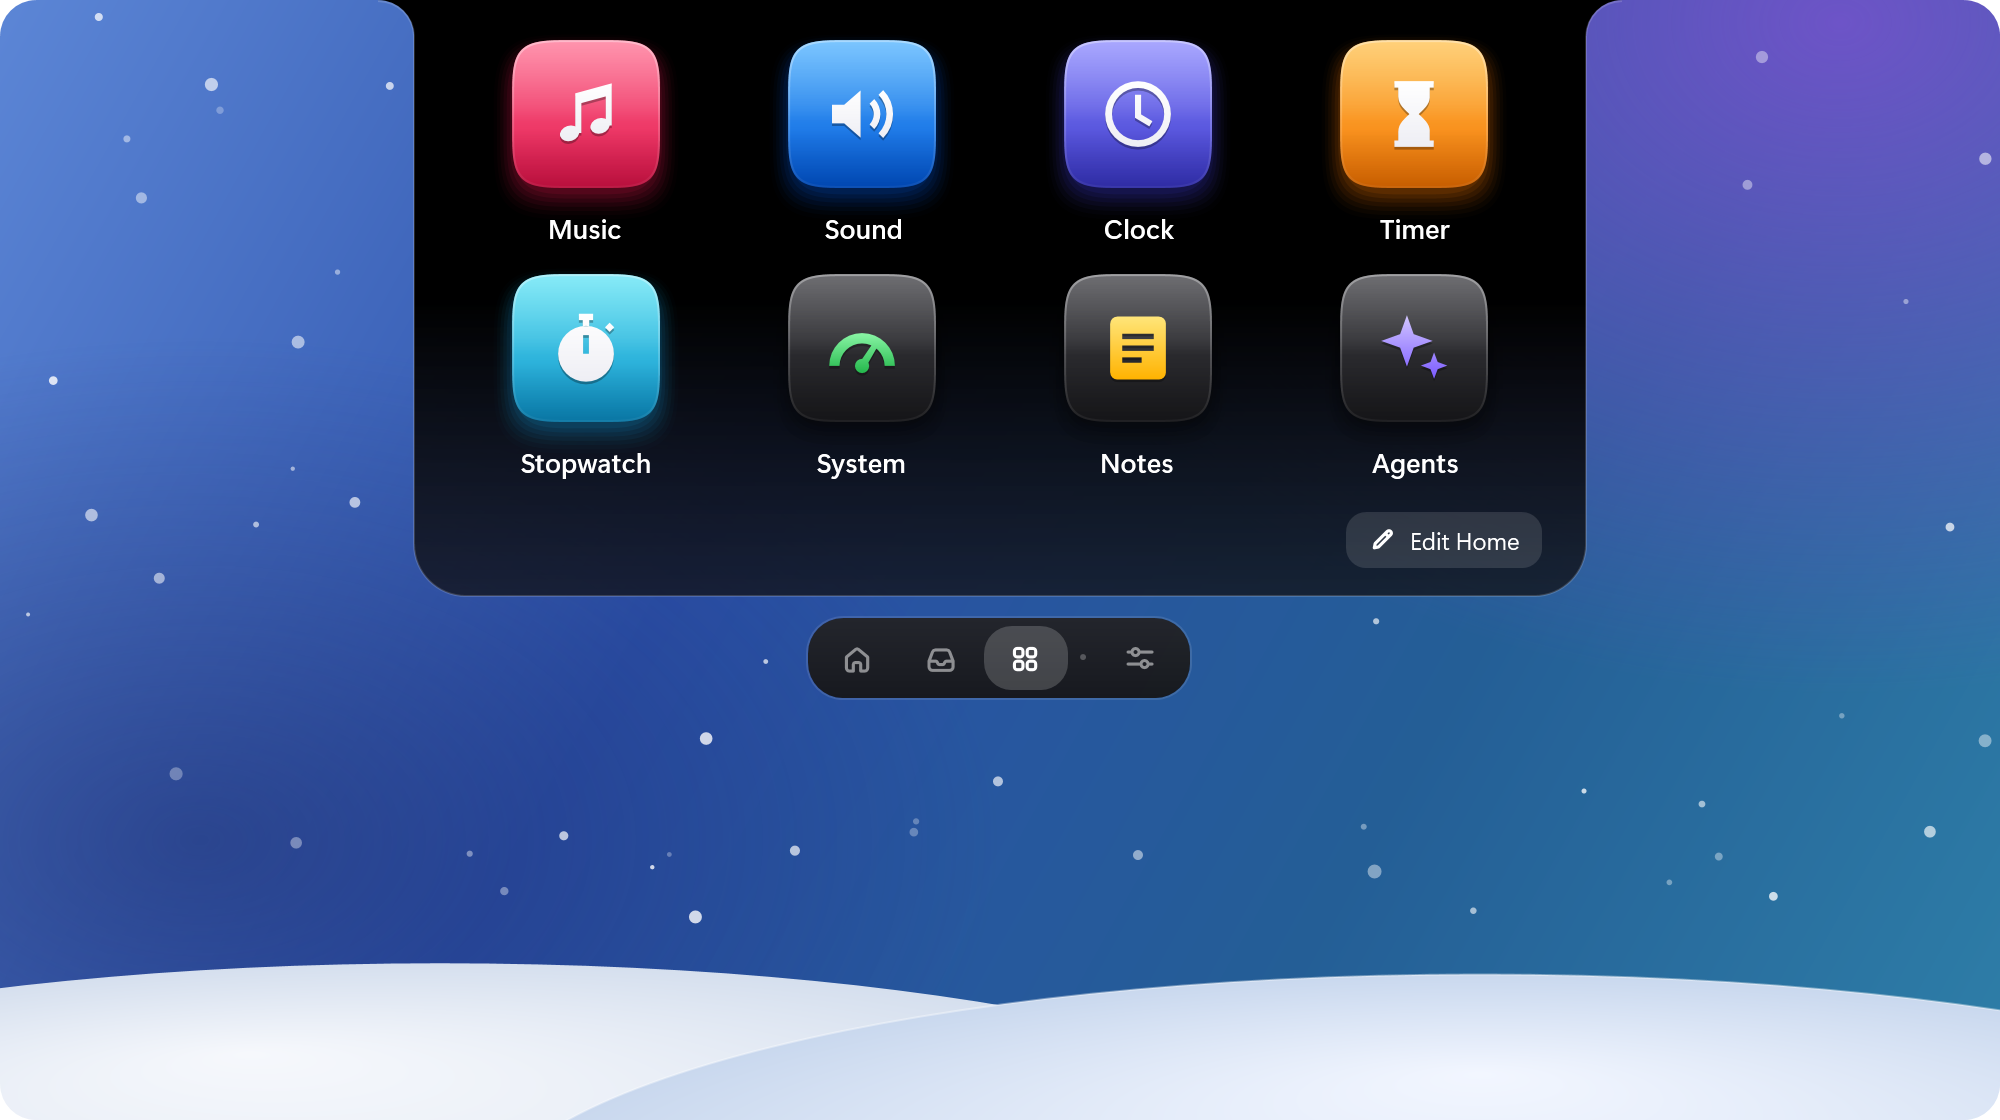
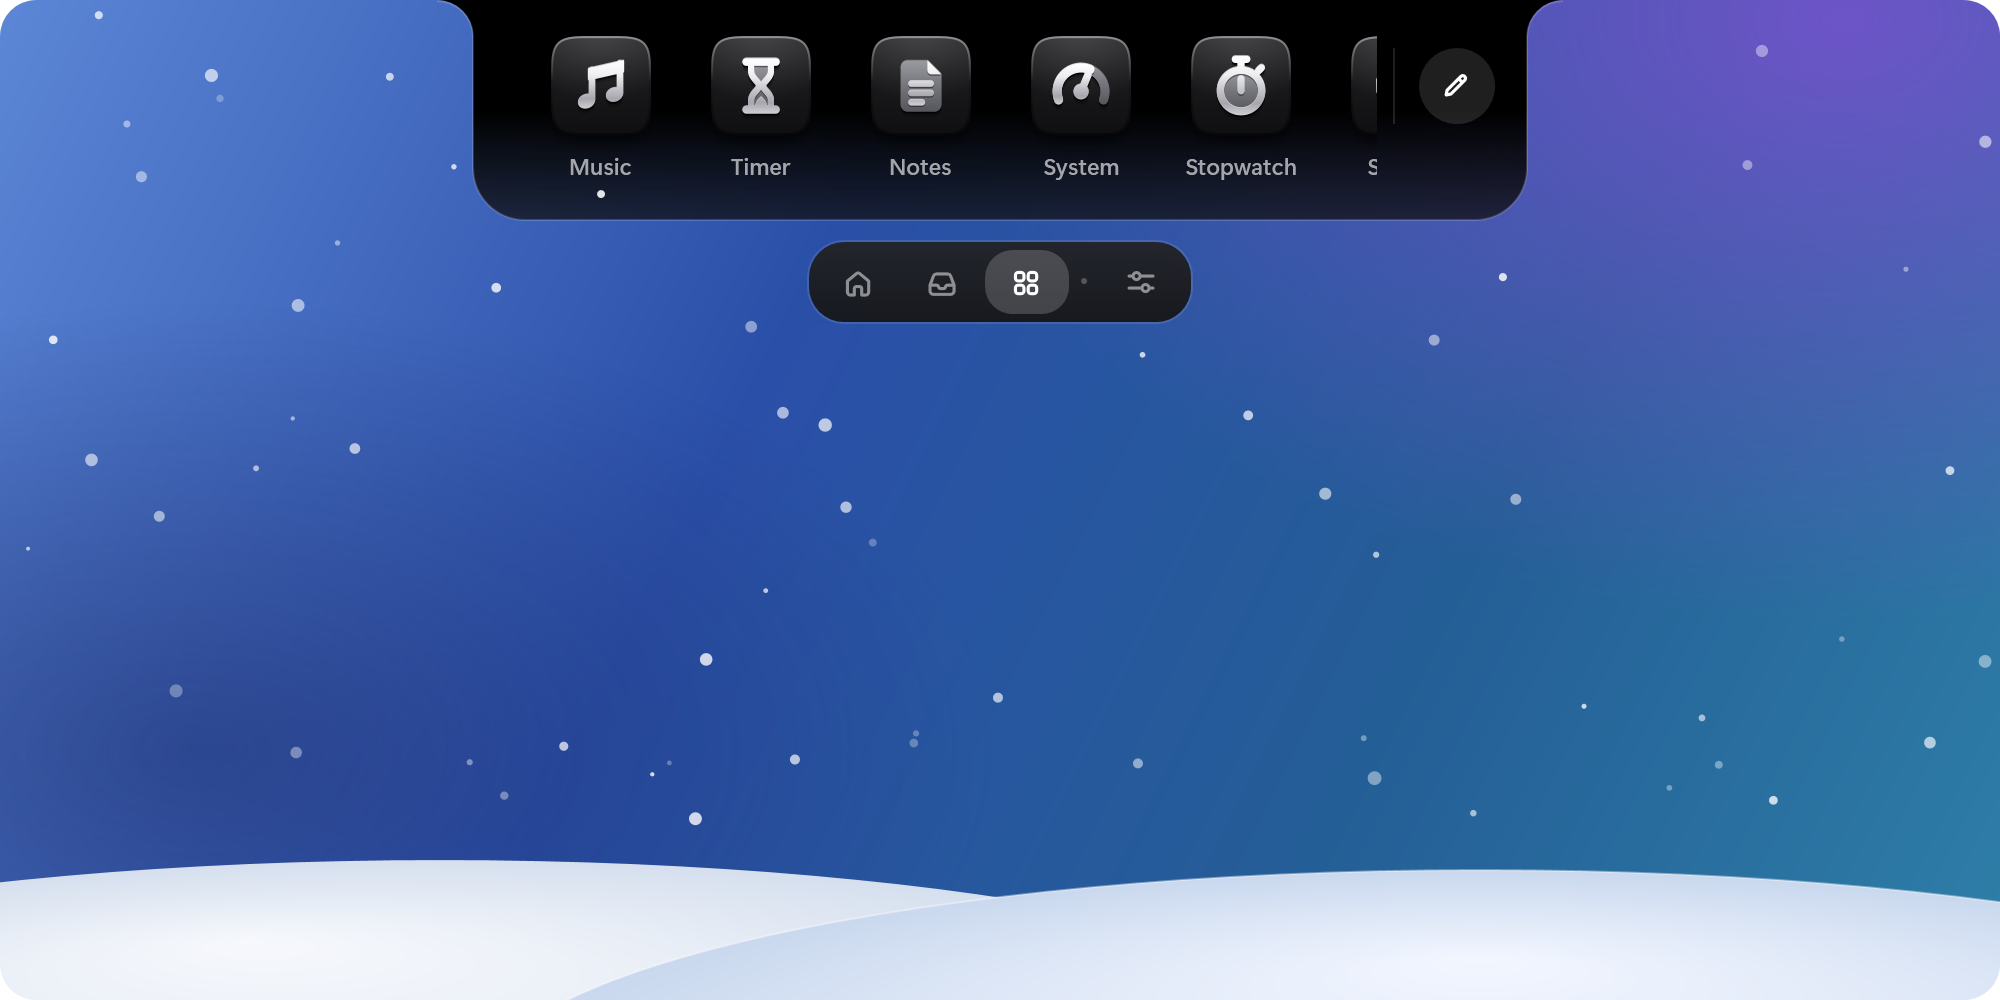
SnowyNotch 0.5.1: new screenshots and README, fix duplicate translation key
- README: full-screen player and its styles, lyrics over screen, clickable
  lyrics, sharp artwork, new controls; internet use now mentions the iTunes
  cover lookup
- Screenshots regenerated (graphite service icons, full-screen styles,
  lyrics over screen)
- Localization: the six strings added for the full-screen toggle and the
  no-lyrics hint reused key 353; renumbered to 354-359 in all languages

Changed region(s): [[0.186, 0.0, 0.806, 0.651]]

diff --git a/README.md b/README.md
@@ -58,11 +58,33 @@ Want it every time you turn on the PC? Put the exe in a permanent folder (for ex
   </tr>
 </table>
 
+### Full-screen player
+
+Drag the artwork out of the island (or press the full-screen button on the big artwork) and the song takes the whole screen: blurred living background, glowing cover and synced lyrics. Pick a style with the layers button in the top right, or press **S**.
+
+<table>
+  <tr>
+    <td width="50%"><img src=".github/screenshots/fullscreen.png" alt="Full-screen player, Classic style"><p align="center"><b>Classic</b>: cover on the left, lyrics on the right</p></td>
+    <td width="50%"><img src=".github/screenshots/fullscreen-vinyl.png" alt="Full-screen player, Vinyl style"><p align="center"><b>Vinyl</b>: a spinning record with a tonearm</p></td>
+  </tr>
+  <tr>
+    <td><img src=".github/screenshots/fullscreen-cinema.png" alt="Full-screen player, Cinema style"><p align="center"><b>Cinema</b>: letterbox, film grain, projector light</p></td>
+    <td><img src=".github/screenshots/fullscreen-kinetic.png" alt="Full-screen player, Kinetic style"><p align="center"><b>Kinetic</b>: the line builds up word by word</p></td>
+  </tr>
+  <tr>
+    <td colspan="2"><img src=".github/screenshots/overlay.png" alt="Lyrics over screen"><p align="center"><b>Lyrics over screen</b>: lines float over your desktop while you work, clicks go straight through</p></td>
+  </tr>
+</table>
+
+Also: **Spotlight**, **Depth** and **Floating** styles.
+
 <sub>Screenshots use a made-up track, artwork and lyrics.</sub>
 
 ## Features
 
-- **Now Playing**: artwork, progress, playback controls and synced lyrics for whatever music is playing in Windows (Spotify, browsers, other players).
+- **Now Playing**: sharp artwork, progress, playback controls and synced lyrics for whatever music is playing in Windows (Spotify, browsers, other players). Scroll the lyrics with the mouse wheel and click any line to jump there.
+- **Full-screen player**: 7 styles (Classic, Cinema, Spotlight, Vinyl, Depth, Kinetic, Floating) with effects that move with the music.
+- **Lyrics over screen**: the song's lines float over your desktop. Turn it on or off from the island, the full-screen player, the tray icon or `Win + Alt + T`.
 - **Widgets**: sound (per-app volume), clock with month calendar, timer and Pomodoro, stopwatch, system monitor, Markdown notes, AI agent usage.
 - **Your home row**: by default it shows music only. Add up to 3 widgets side by side via **Widgets → Edit Home**.
 - **File tray**: drop files onto the island to keep them handy, then drag them out wherever you need them.
@@ -78,6 +100,8 @@ Want it every time you turn on the PC? Put the exe in a permanent folder (for ex
 | Make it see-through / hide it | Middle click / hold middle button on the island (see the tip above) |
 | Open settings | `Win + /`, or left-click the tray icon |
 | Per-app volume | `Win + Alt + V` |
+| Full-screen player | Drag the artwork out of the island. `Esc` exits, `Space` pauses, `←` / `→` seek, `S` changes style |
+| Lyrics over screen on / off | `Win + Alt + T`, or the tray icon |
 | Quit | Right-click the tray icon → **Quit** |
 
 ## FAQ
@@ -89,7 +113,10 @@ The exe isn't signed with a paid certificate, so SmartScreen doesn't know it yet
 `SnowyNotch-x.y.z-win-x64.exe` works on any Windows 10 (2004+) / 11 PC. The `-lite` version is smaller but needs the [.NET 8 Desktop Runtime](https://dotnet.microsoft.com/download/dotnet/8.0) installed.
 
 **Does it use the internet?**
-Only to look up song lyrics on [lrclib.net](https://lrclib.net) (can be turned off in Settings → Media). AI usage limits are fetched only if you turn that on yourself.
+Only for music: to look up song lyrics on [lrclib.net](https://lrclib.net) (can be turned off in Settings → Media), and to get a sharper copy of the album cover from the iTunes catalog, because Windows hands over only a small one. The sharper cover is used only if it is the same picture. AI usage limits are fetched only if you turn that on yourself.
+
+**The full-screen player says the effects can't be seen in full.**
+The styles are built around time-synced lyrics. If a song has no lyrics, or only plain text without timing, you still get the background, cover and controls, and the style menu tells you why some effects are missing.
 
 **Can I hide "Spotify" / "SoundCloud" next to the artist name?**
 Yes: turn off **Settings → Media → Show where it's playing from**. Turn it back on the same way.
